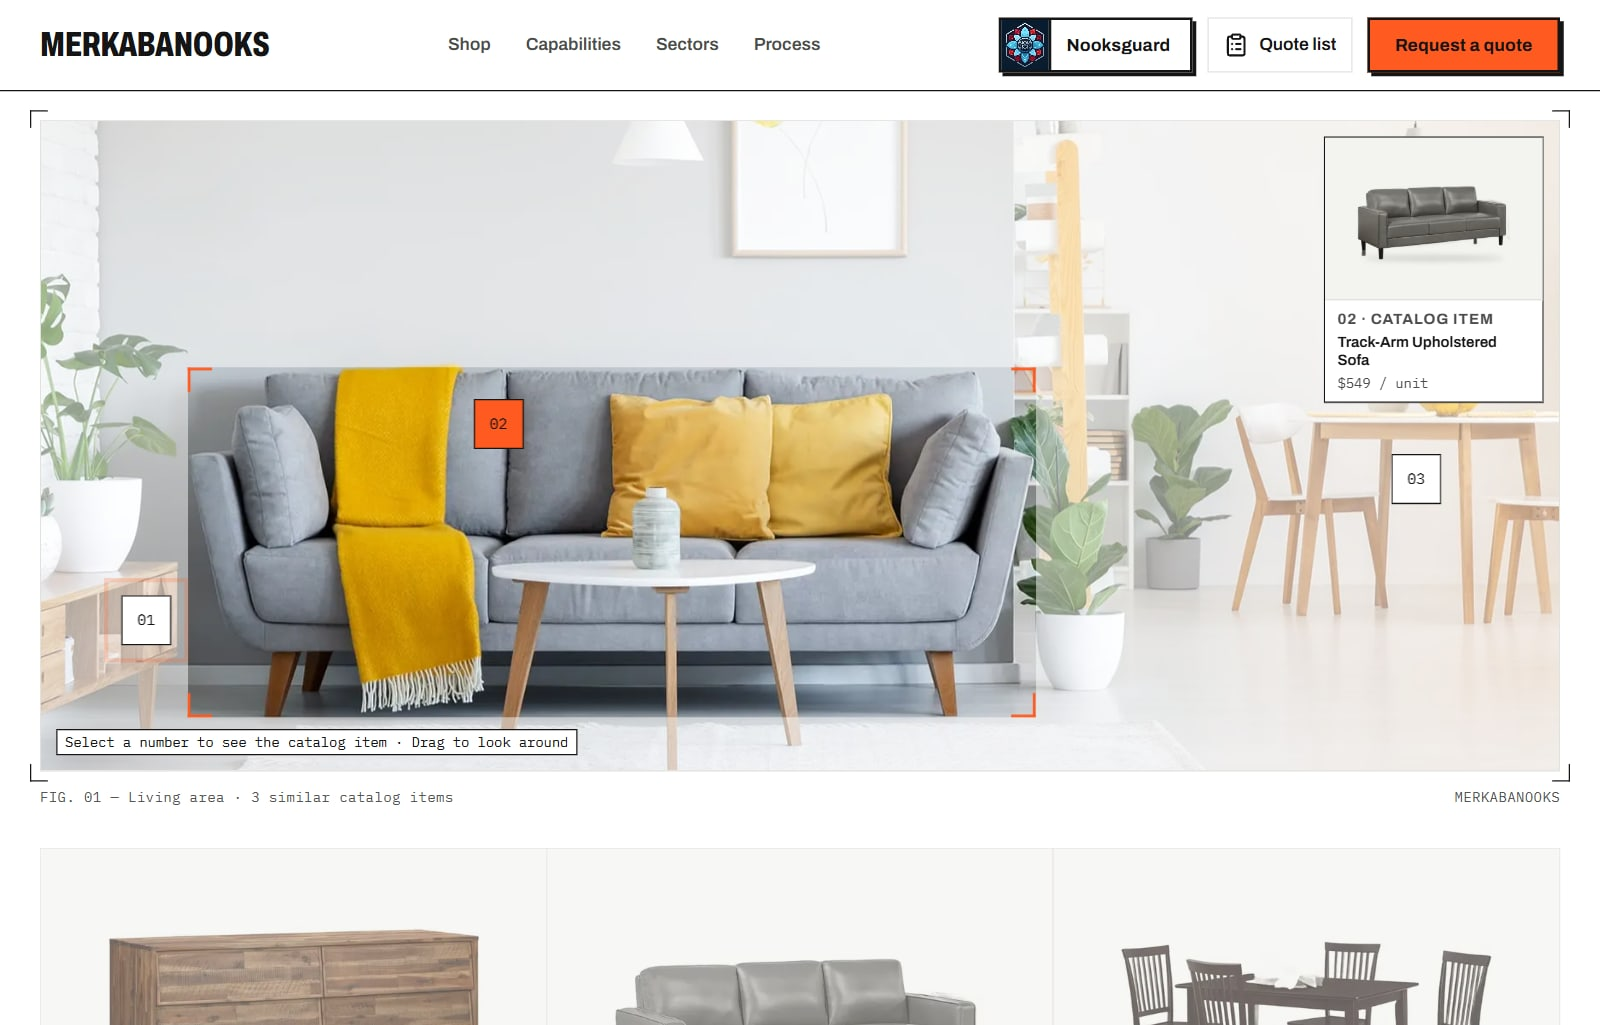
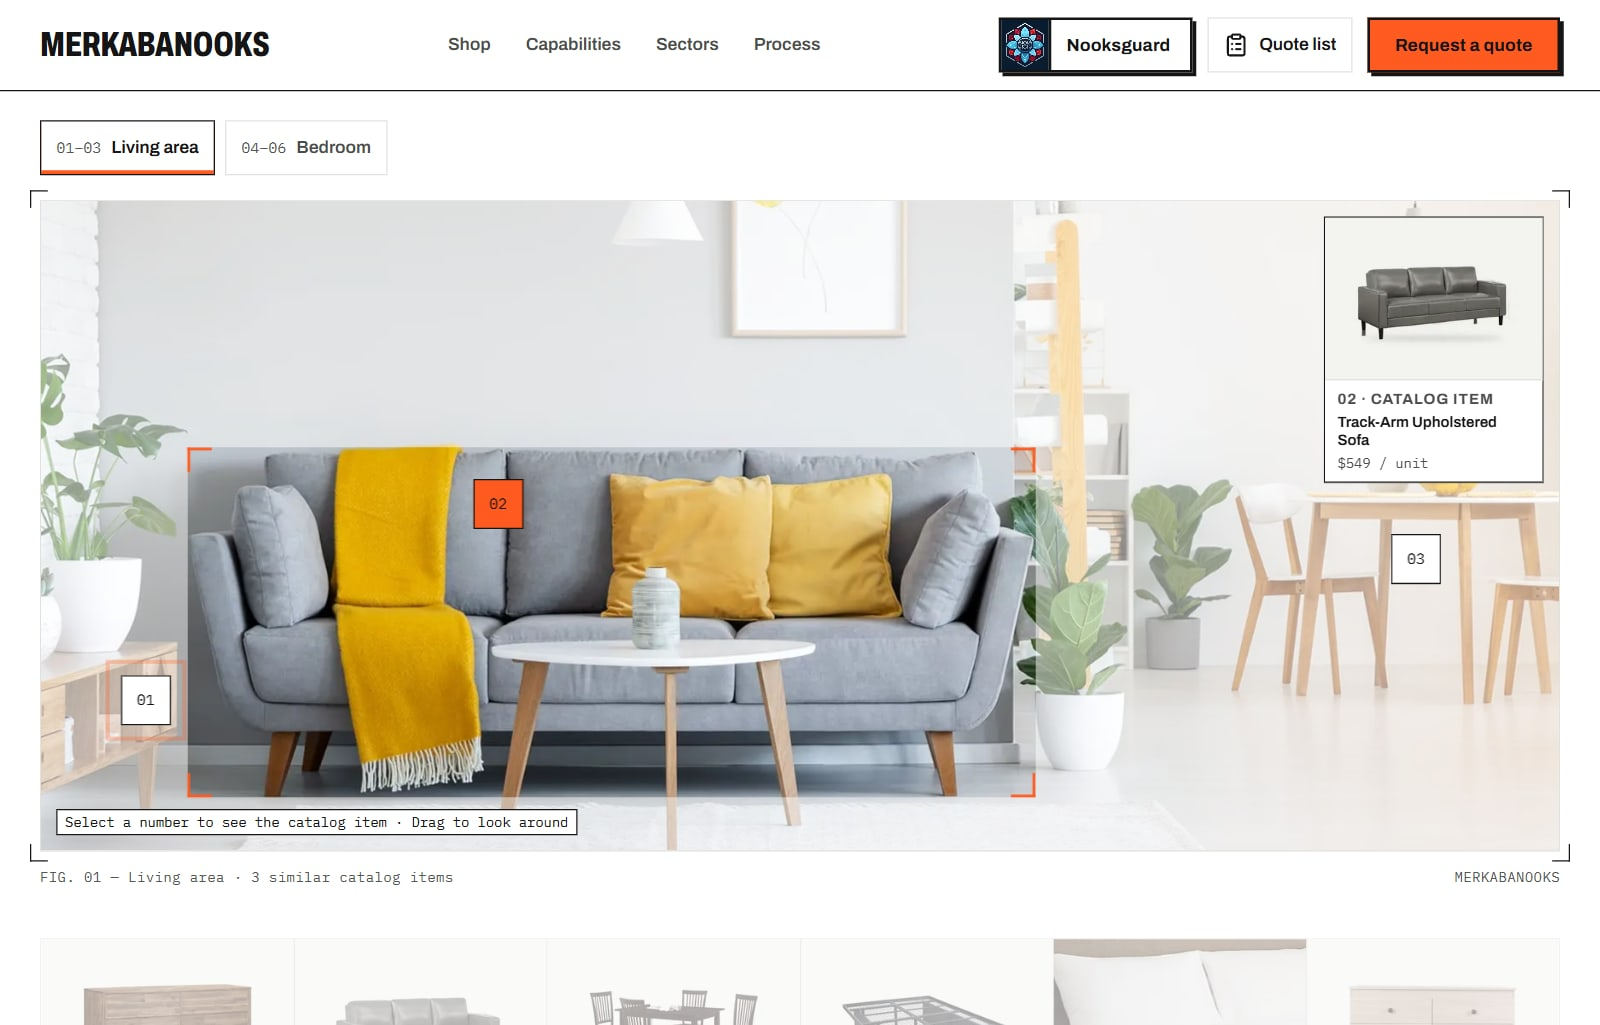
Showcase: room photos now include the bedroom

diff --git a/index.html b/index.html
@@ -232,7 +232,7 @@
 
     <div class="hero-meta">
       <div class="hero-copy">
-        <p class="lede">A bolder look on a clean white page, an interactive room photo, a zoomable view of every real product, real product photos and the complete Nooksguard security catalog. The new site is live now.</p>
+        <p class="lede">A bolder look on a clean white page, interactive room photos, a zoomable view of every real product, real product photos and the complete Nooksguard security catalog. The new site is live now.</p>
         <a class="btn-live" href="https://merkabanooks.vercel.app" target="_blank" rel="noopener">Visit the live site <span aria-hidden="true">→</span></a>
         <span class="mono live-url">merkabanooks.vercel.app</span>
       </div>
@@ -261,7 +261,7 @@
     <div class="track">
       <ul>
         <li><span>Bold white redesign</span></li>
-        <li><span>Interactive room photo</span></li>
+        <li><span>Interactive room photos</span></li>
         <li><span>Zoom into every product</span></li>
         <li><span>33 real product photos</span></li>
         <li><span>12 Nooksguard families</span></li>
@@ -269,7 +269,7 @@
       </ul>
       <ul aria-hidden="true">
         <li><span>Bold white redesign</span></li>
-        <li><span>Interactive room photo</span></li>
+        <li><span>Interactive room photos</span></li>
         <li><span>Zoom into every product</span></li>
         <li><span>33 real product photos</span></li>
         <li><span>12 Nooksguard families</span></li>
@@ -298,13 +298,13 @@
         </div>
       </article>
       <article class="tile">
-        <button class="shot" type="button" data-enlarge="room.jpg" data-title="Interactive room photo" data-caption="A real room photo with numbered pieces. Point at one and it lights up with the matching catalog item and price; tap it to open the product up close. Drag to look around.">
+        <button class="shot" type="button" data-enlarge="room.jpg" data-title="Interactive room photos" data-caption="Real room photos, a living area and a bedroom, with six numbered pieces. Point at one and it lights up with the matching catalog item and price; tap it to open the product up close. Drag to look around.">
           <img src="room.jpg" alt="The home-page room photo with the sofa highlighted in orange corner marks and a card showing the matching Track-Arm Upholstered Sofa at $549 per unit" width="1600" height="1025">
           <span class="enlarge">Enlarge</span>
         </button>
         <div class="tile-body">
-          <h3 class="display">Interactive room photo</h3>
-          <p>A real room photo with numbered pieces. Point at one and it lights up with the matching catalog item and price; tap it to open the product up close. Drag to look around.</p>
+          <h3 class="display">Interactive room photos</h3>
+          <p>Real room photos, a living area and a bedroom, with six numbered pieces. Point at one and it lights up with the matching catalog item and price; tap it to open the product up close. Drag to look around.</p>
         </div>
       </article>
       <article class="tile">
